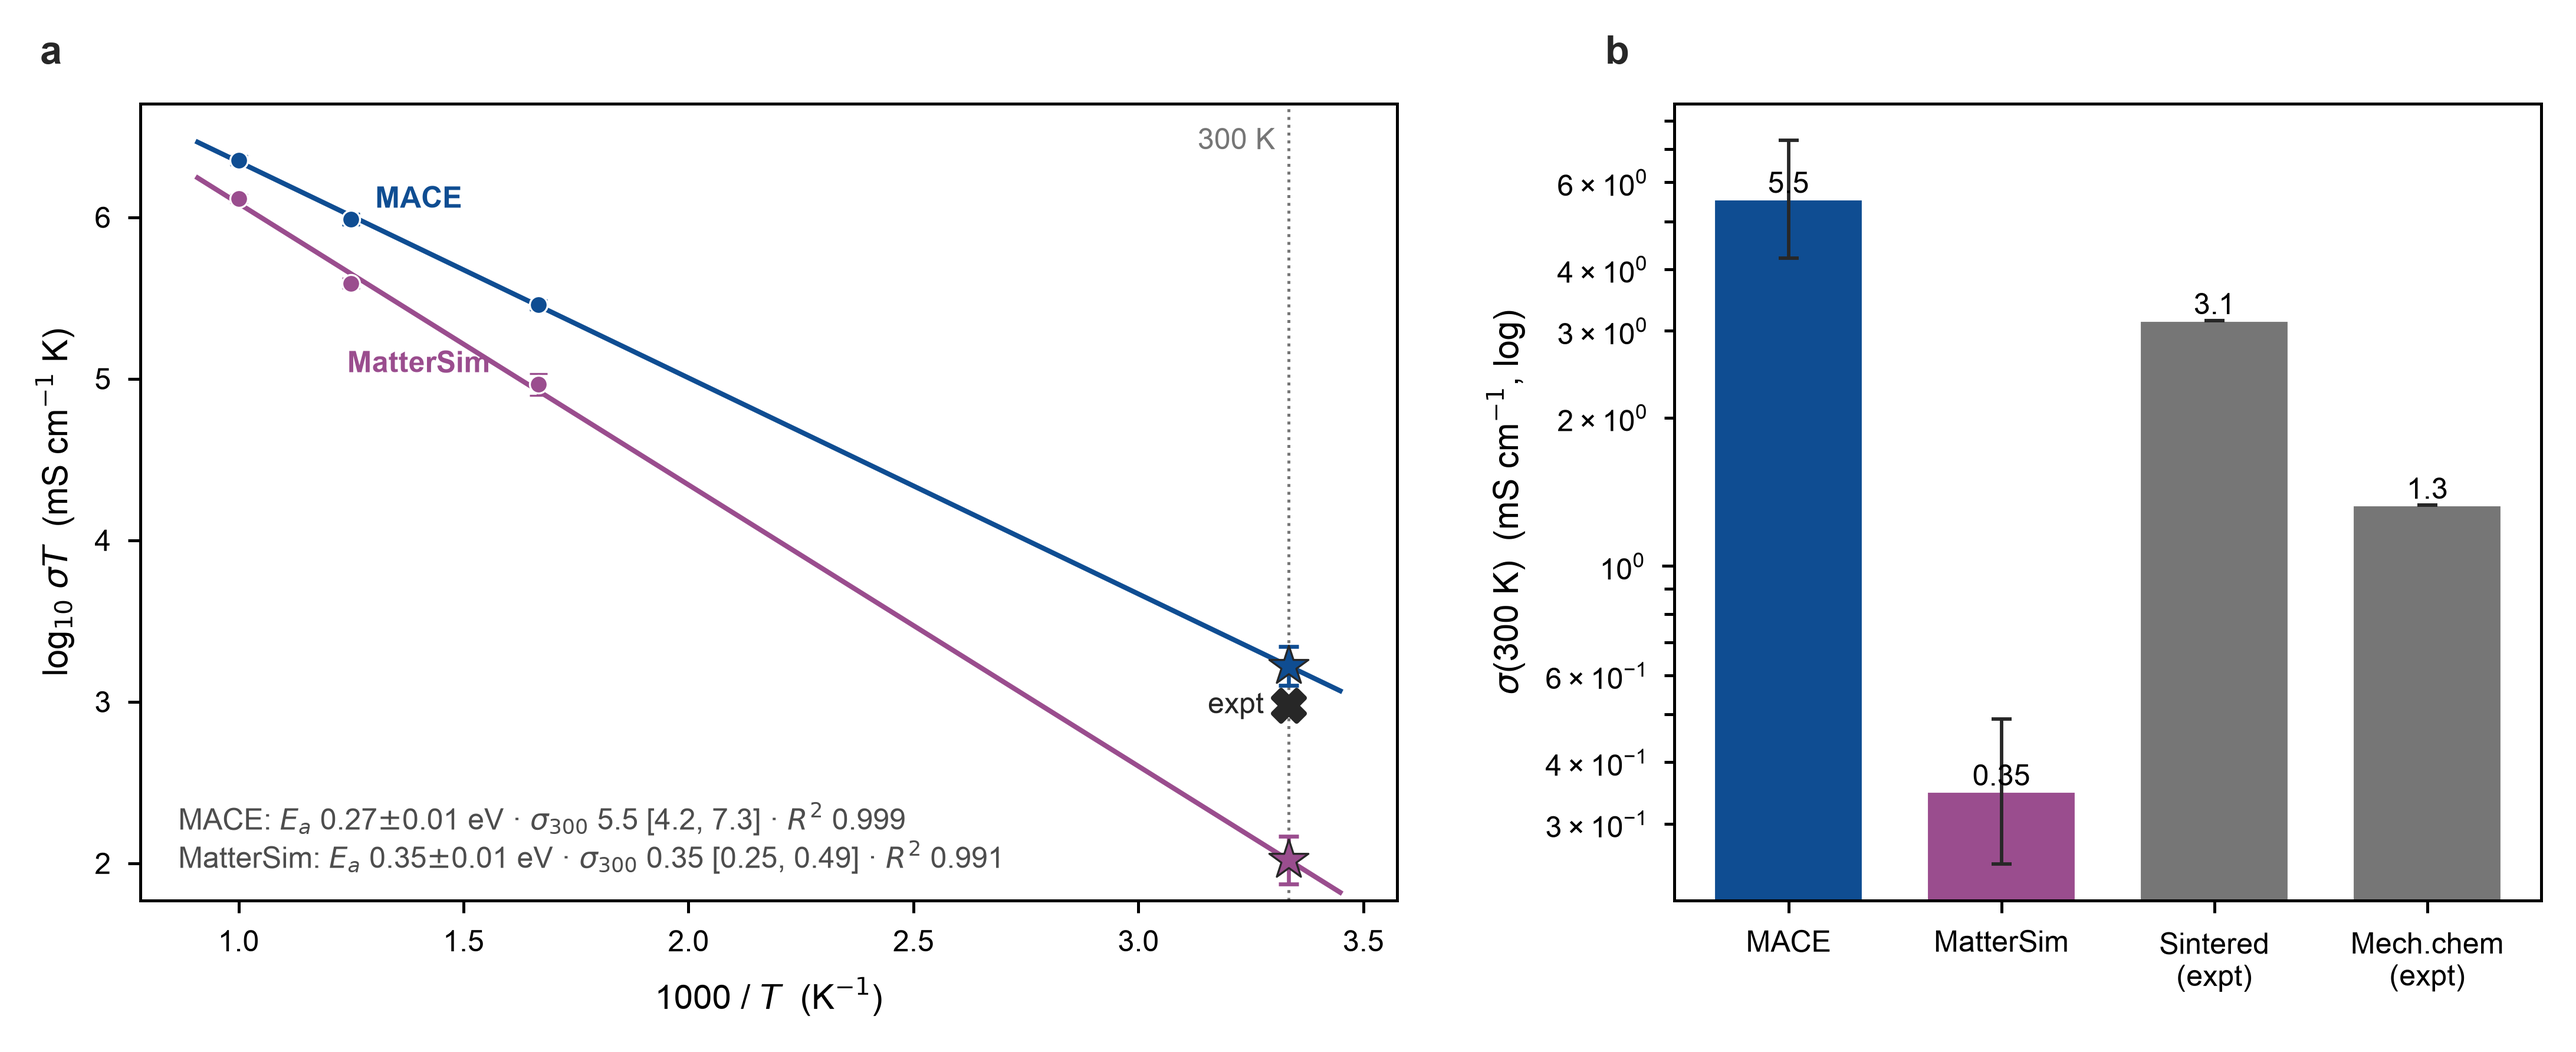
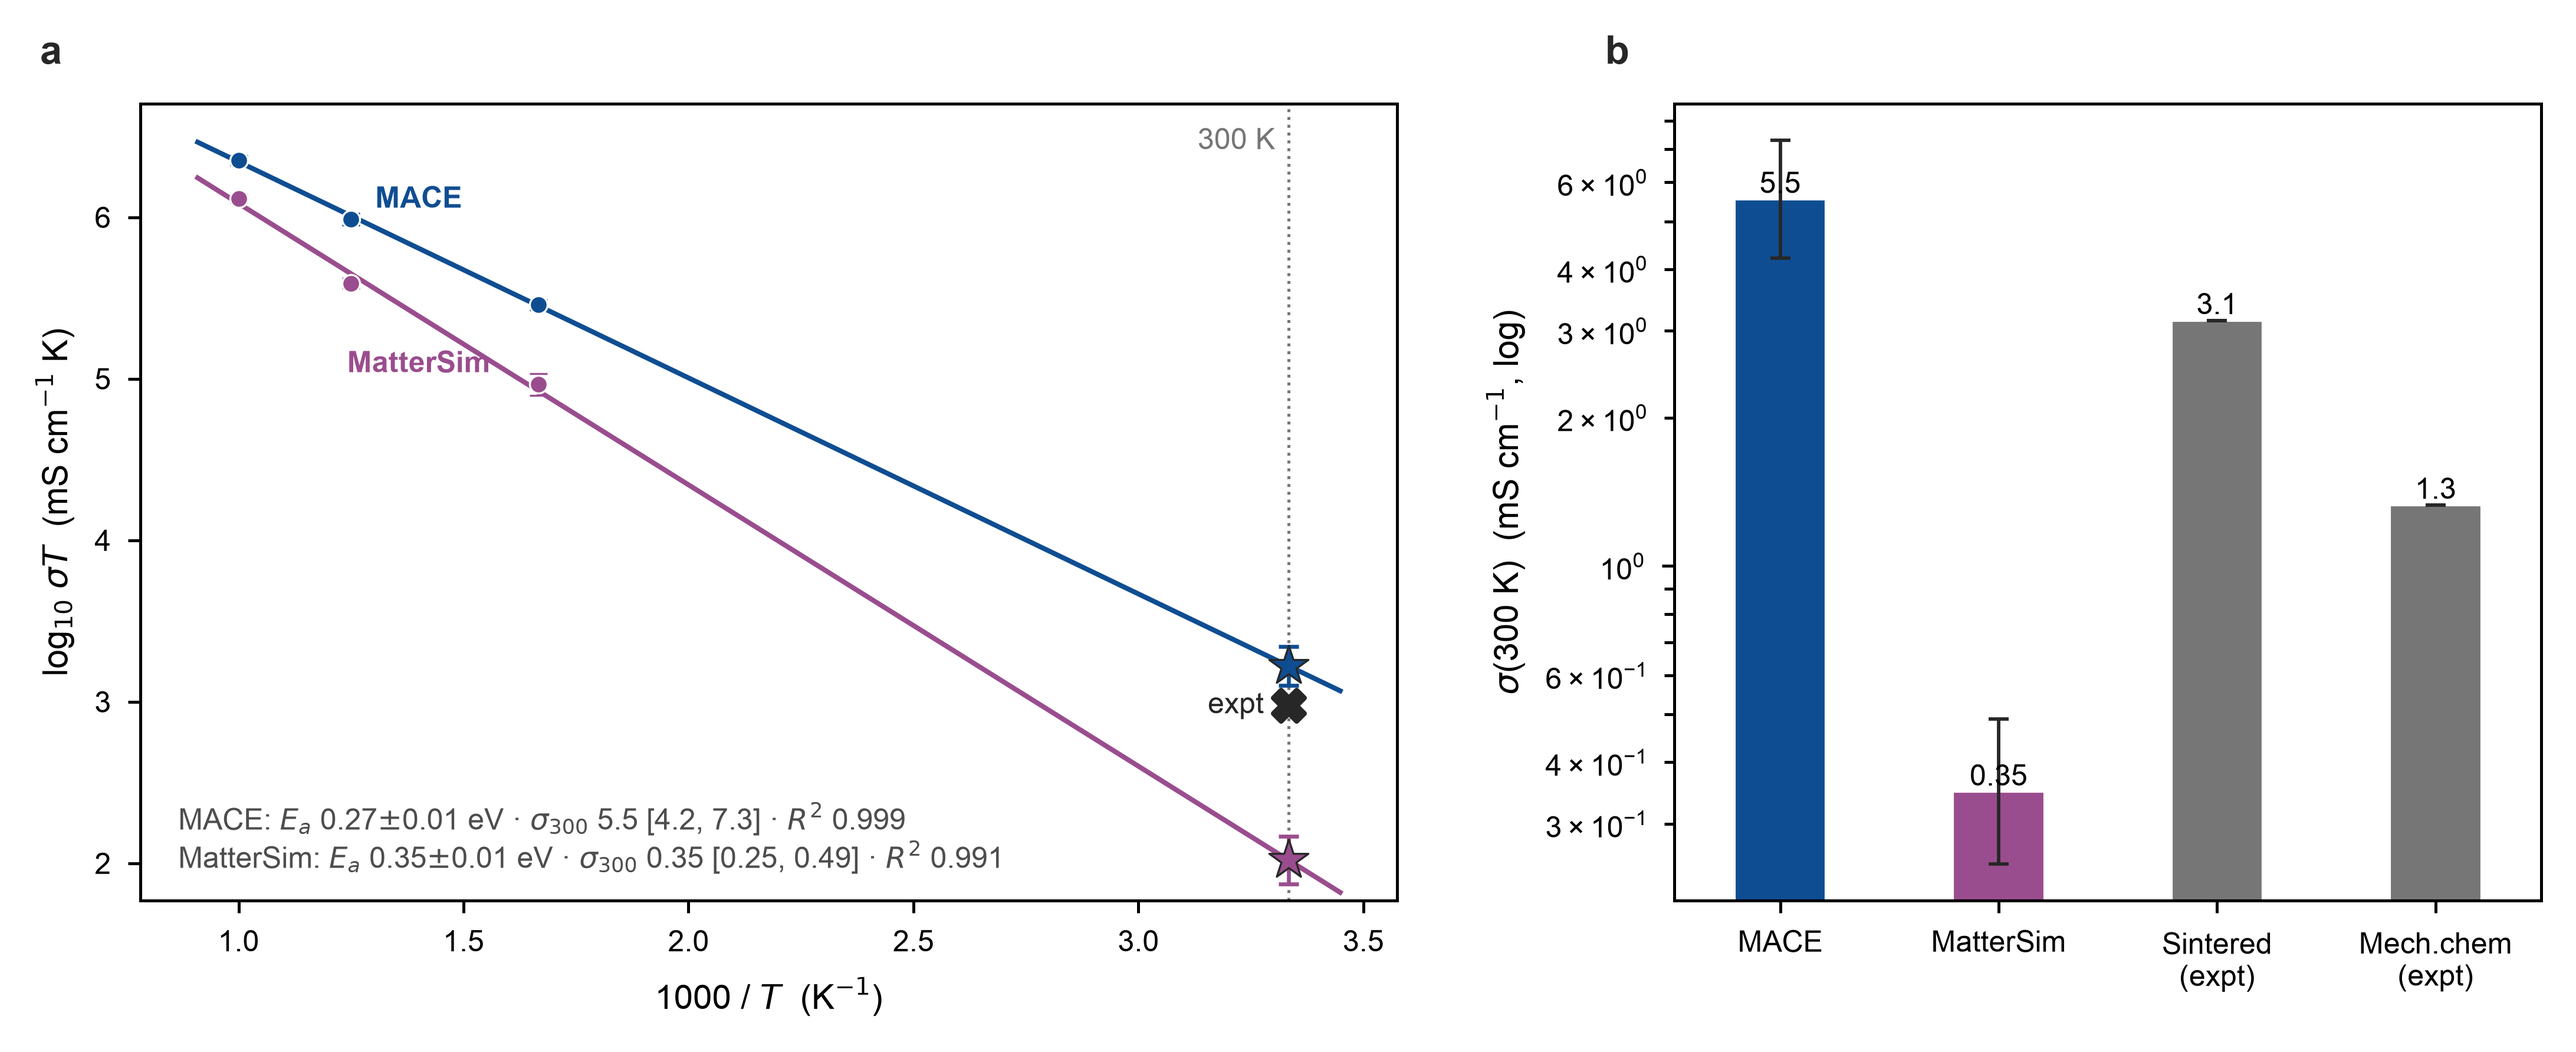
Narrow the bars across every sigma(300 K) panel
A fat bar carries no extra information. All bar panels regenerated narrower:
the merged grid-bar panel (width 0.62 -> 0.35), every rows-layout sigma panel
(0.7 -> 0.42, plus x margins), and 06_compare_leads' horizontal bars (default
0.8 -> height 0.45). Figures re-rendered; numbers unchanged.

diff --git a/03_analyze_transport.py b/03_analyze_transport.py
@@ -166,9 +166,11 @@ def _sigma300_ax(ax, fits, expt=EXPT):
         colors.append(ps.PALETTE["neutral_mid"])   # experiment = neutral reference
     x = np.arange(len(labels))
     yerr = [err_lo, err_hi] if any(err_lo) or any(err_hi) else None
-    ax.bar(x, vals, color=colors, edgecolor="white", linewidth=0.5, width=0.7,
+    # keep bars narrow -- a fat bar carries no extra information
+    ax.bar(x, vals, color=colors, edgecolor="white", linewidth=0.5, width=0.42,
            yerr=yerr, error_kw=dict(elinewidth=0.7, capsize=2, capthick=0.7,
                                     ecolor=ps.PALETTE["neutral_black"]))
+    ax.margins(x=0.08)
     ax.set_yscale("log")
     ax.set_xticks(x)
     ax.set_xticklabels(labels, fontsize=ps.FS_TICK)
@@ -259,9 +261,11 @@ def _plot_transport_gridbar(groups, path):
                 colors.append(_SERIES_RAMP[i % len(_SERIES_RAMP)])
     x = np.arange(len(labels))
     yerr = [err_lo, err_hi] if any(err_lo) or any(err_hi) else None
-    axB.bar(x, vals, color=colors, edgecolor="white", linewidth=0.5, width=0.62,
+    # narrow bars: the panel spans the full double-column width, so wide bars look bloated
+    axB.bar(x, vals, color=colors, edgecolor="white", linewidth=0.5, width=0.35,
             yerr=yerr, error_kw=dict(elinewidth=0.7, capsize=2, capthick=0.7,
                                      ecolor=ps.PALETTE["neutral_black"]))
+    axB.margins(x=0.06)
     axB.set_yscale("log")
     axB.set_xticks(x)
     axB.set_xticklabels(labels, fontsize=ps.FS_TICK)

diff --git a/06_compare_leads.py b/06_compare_leads.py
@@ -139,9 +139,10 @@ def main():
         xe_lo.append(v - lo if lo and np.isfinite(lo) else 0.0)
         xe_hi.append(hi - v if hi and np.isfinite(hi) else 0.0)
     xerr = [xe_lo, xe_hi] if any(xe_lo) or any(xe_hi) else None
-    axB.barh(ypos, vals, color=colors, edgecolor=ps.PALETTE["neutral_black"], linewidth=0.5,
-             xerr=xerr, error_kw=dict(elinewidth=0.7, capsize=2, capthick=0.7,
-                                      ecolor=ps.PALETTE["neutral_black"]))
+    # keep bars narrow -- a fat bar carries no extra information (matches 03's sigma panels)
+    axB.barh(ypos, vals, height=0.45, color=colors, edgecolor=ps.PALETTE["neutral_black"],
+             linewidth=0.5, xerr=xerr, error_kw=dict(elinewidth=0.7, capsize=2, capthick=0.7,
+                                                     ecolor=ps.PALETTE["neutral_black"]))
     axB.set_xscale("log")
     axB.axvline(baseline["sigma300_mS_cm"], color=BASELINE_COLOR, ls="--", lw=0.8, zorder=1)
     axB.text(baseline["sigma300_mS_cm"], len(order) - 0.4, " Li$_6$PS$_5$Cl",
